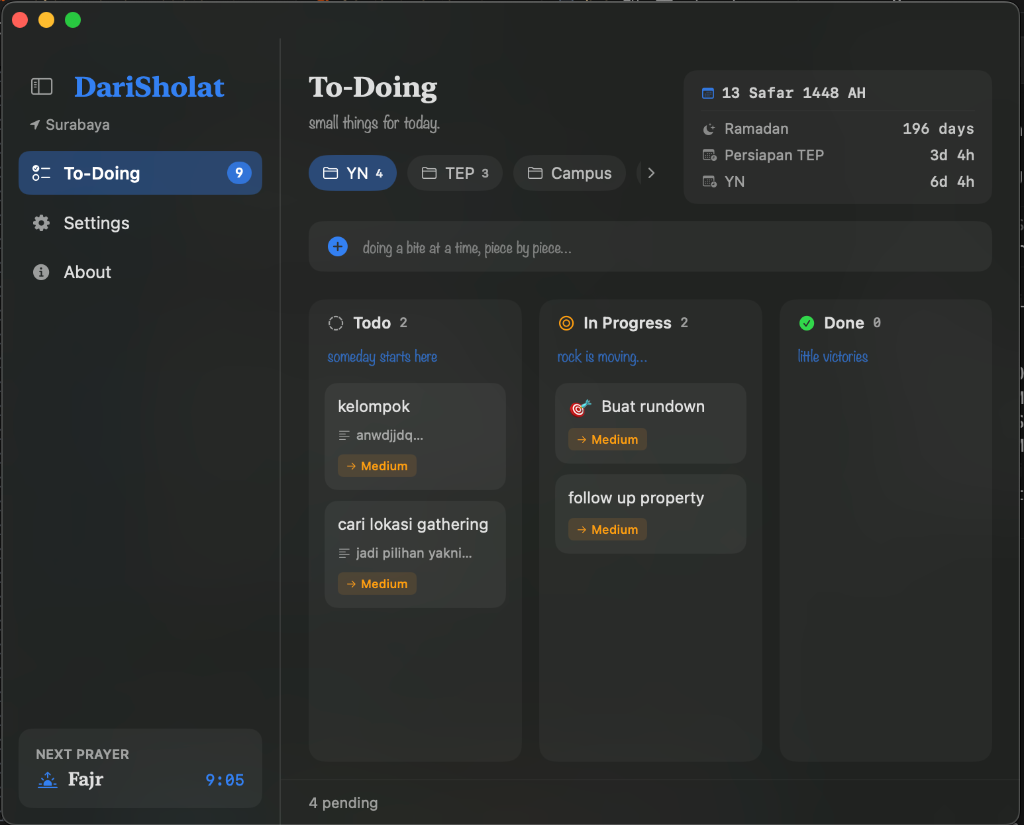
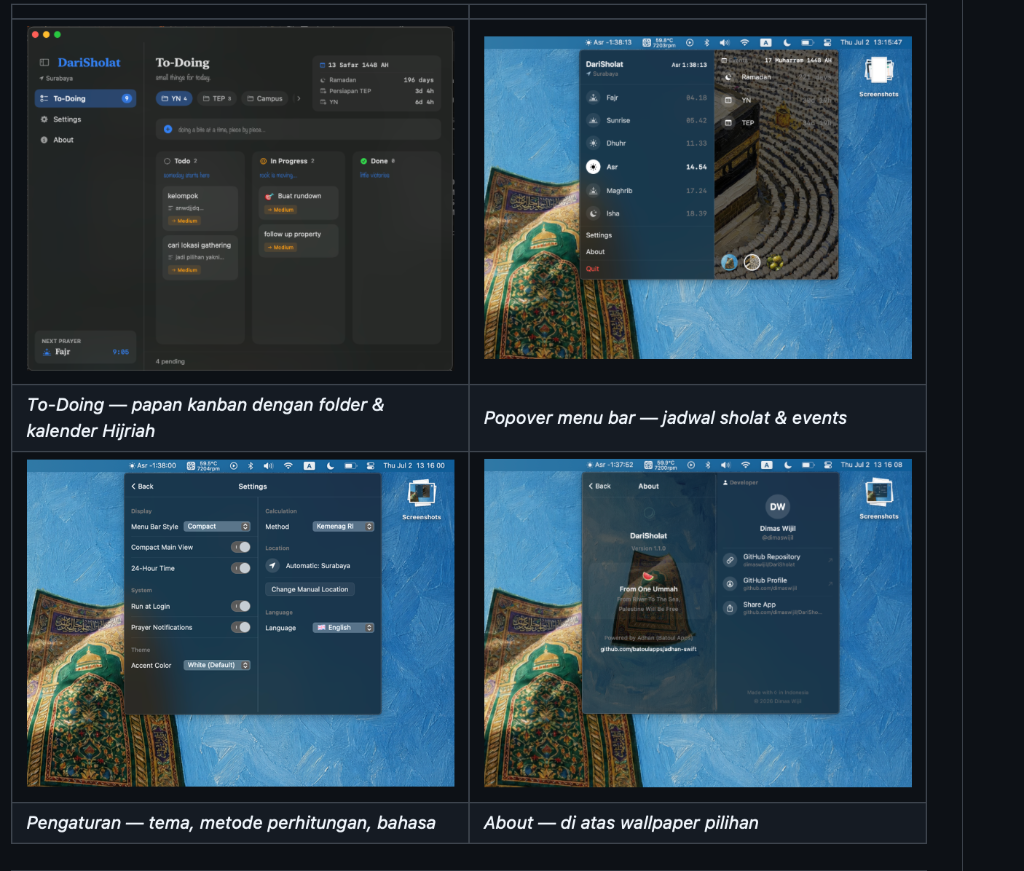
docs: update screenshot assets & README for v2.0.0

diff --git a/README.md b/README.md
@@ -10,7 +10,7 @@
   <img src="https://img.shields.io/badge/Platform-macOS%2013%2B-black?style=flat-square&logo=apple" alt="macOS 13+">
   <img src="https://img.shields.io/badge/Bahasa-Swift-orange?style=flat-square&logo=swift" alt="Swift">
   <img src="https://img.shields.io/badge/Harga-Gratis-brightgreen?style=flat-square" alt="Gratis">
-  <img src="https://img.shields.io/badge/Versi-1.2.0-blue?style=flat-square" alt="v1.2.0">
+  <img src="https://img.shields.io/badge/Versi-2.0.0-blue?style=flat-square" alt="v2.0.0">
 </p>
 
 ---
@@ -32,7 +32,7 @@
 |---|---|
 | 🕒 **Jadwal Sholat Lengkap** | Subuh, Syuruq, Dzuhur, Ashar, Maghrib, Isya — dengan countdown real-time di menu bar (`Fajr -40:32`) |
 | 📍 **Lokasi Otomatis / Manual** | Deteksi GPS otomatis, atau pilih manual dari 18 kota besar Indonesia |
-| ✅ **To-Doing (Kanban Board)** | Papan tugas Todo → In Progress → Done dengan folder, drag & drop, catatan ala Notion, dan quote harian |
+| ✅ **To-Doing (Kanban Board & Rundown Table)** | Papan tugas Todo → In Progress → Done dengan folder, drag & drop, tampilan spreadsheet rundown acara, dan catatan ala Notion |
 | 🌙 **Wake from Sleep** | Window To-Doing otomatis tampil saat Mac bangun dari sleep — mulai hari dengan rencana |
 | 📅 **Kalender Apple + Hijriah** | Countdown ke semua event kalender dan tanggal Hijriah hari ini |
 | 🔔 **Notifikasi Sholat** | Pengingat otomatis saat waktu sholat tiba |
@@ -46,10 +46,10 @@
 
 | | |
 |---|---|
-| ![To-Doing](assets/screenshots/todoing_view.png) | ![Main](assets/screenshots/main_view.png) |
-| *To-Doing — papan kanban dengan folder & kalender Hijriah* | *Popover menu bar — jadwal sholat & events* |
-| ![Settings](assets/screenshots/settings_view.png) | ![About](assets/screenshots/about_view.png) |
-| *Pengaturan — tema, metode perhitungan, bahasa* | *About — di atas wallpaper pilihan* |
+| ![Popover Menu Bar](assets/screenshots/popover_view.png) | ![Beranda Desktop](assets/screenshots/main_view.png) |
+| *Popover menu bar — jadwal sholat & events* | *Beranda — tampilan desktop dengan wallpaper pilihan* |
+| ![To-Doing Board](assets/screenshots/todoing_view.png) | |
+| *To-Doing — papan kanban dengan folder & kalender Hijriah* | |
 
 ---
 
